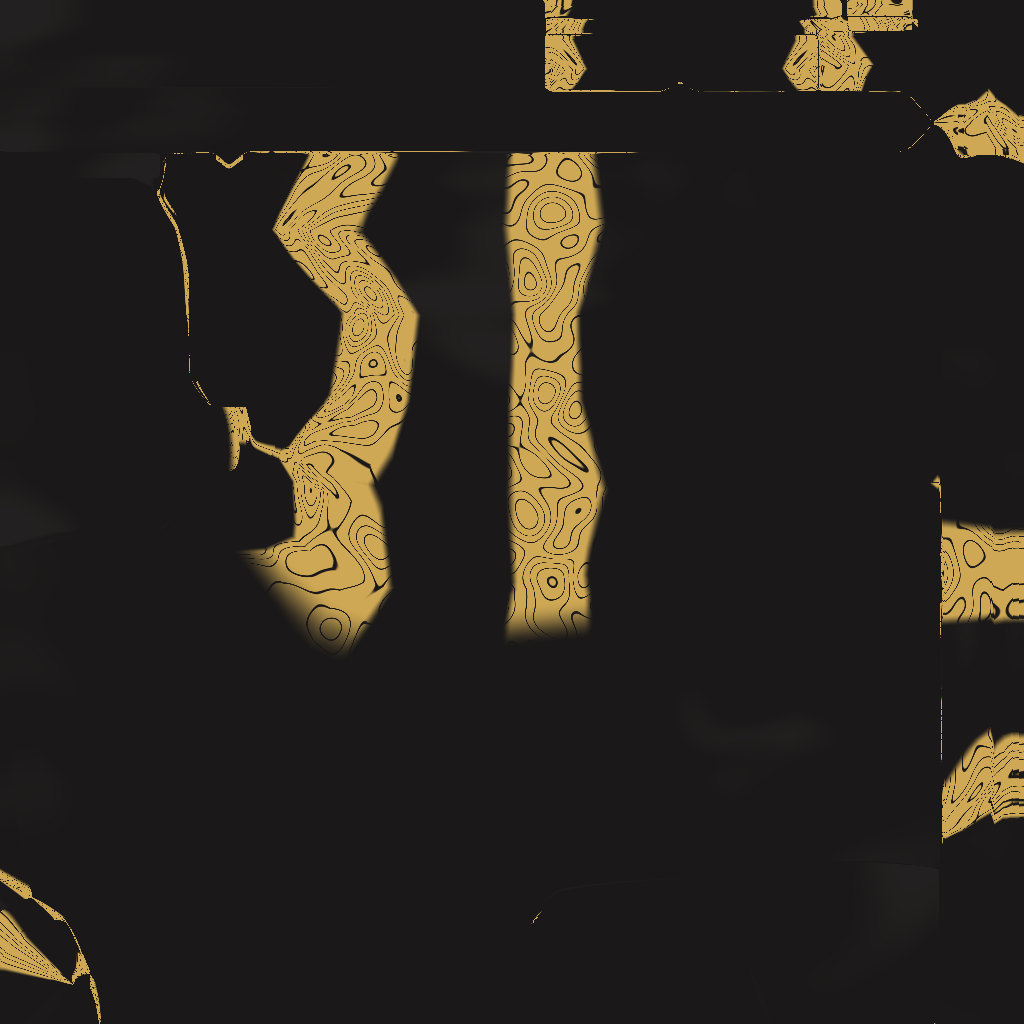
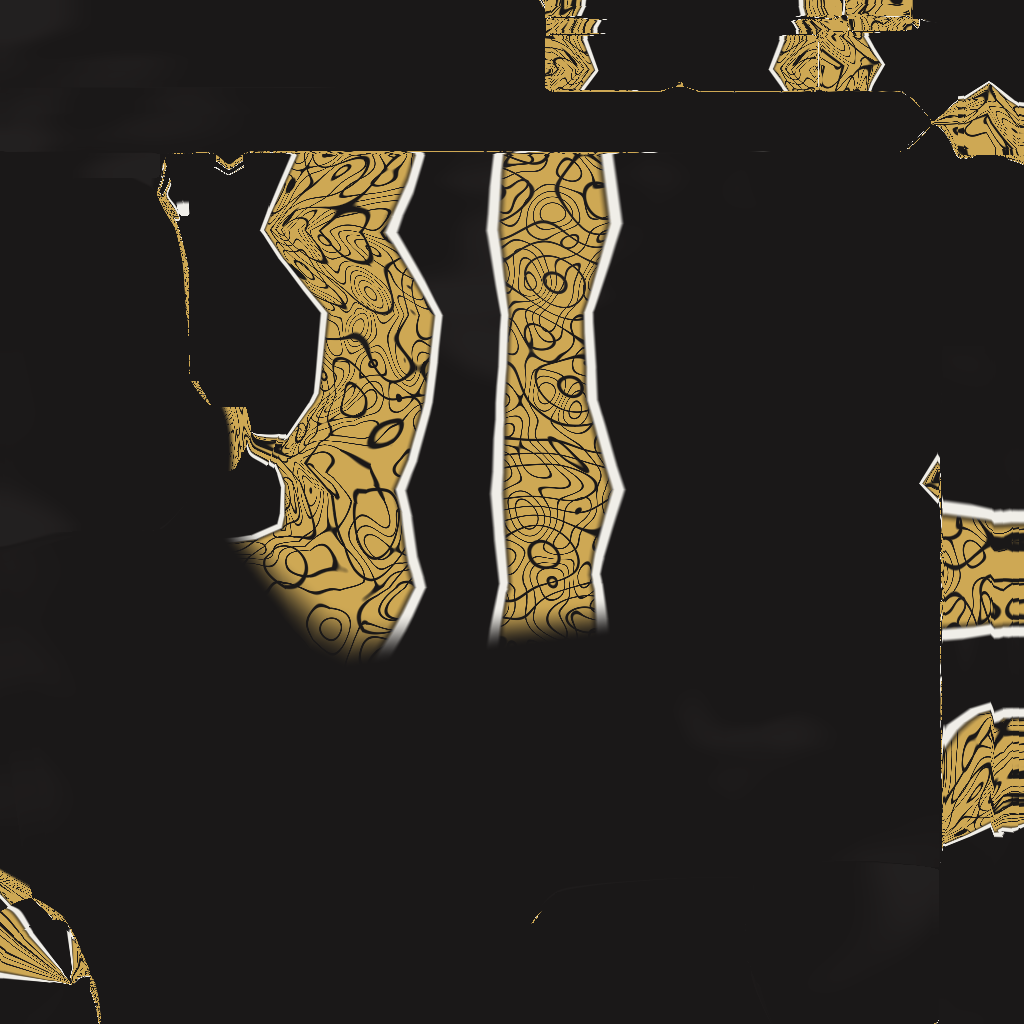
Kenny: his gear's scrollwork, gold veins and white-piped boot panels
Claude-Session: https://claude.ai/code/session_01RyRo3mh3ZakHSDewU65aFM

diff --git a/tools/assets/build_kenny_textures.py b/tools/assets/build_kenny_textures.py
@@ -252,7 +252,17 @@ THIGH_PANEL = (0.61, 1.03, 38.0, 128.0)
 BACK_STRIPE = (0.61, 1.0, 150.0)
 ## On the boots: a gold panel down the front of the shaft and one down the
 ## outside.
-BOOT_PANELS = ((0.0, 22.0), (90.0, 16.0))
+## Pass 7 (8 Nov), against the sheet's boot panels: the front panel runs
+## wider up the shin, every panel edged in white piping (BOOT_PIPING, degrees).
+BOOT_PANELS = ((0.0, 30.0), (90.0, 18.0))
+BOOT_PIPING = 3.0
+## The sheet's tights are white with thin gold veins through the marble, not
+## flat white: TIGHTS_VEIN, at TIGHTS_VEIN_SCALE (m) and strength.
+TIGHTS_VEIN = np.array([212.0, 182.0, 116.0])
+TIGHTS_VEIN_SCALE = 0.22
+TIGHTS_VEIN_STRENGTH = 0.75
+## And the black scrollwork over the gold panels is denser than pass 6's.
+PANEL_SCROLL_WIDTH = 0.13
 BOOT_FOOT = 0.13
 GEAR_SEED = 2710
 
@@ -758,6 +768,8 @@ def tights(point, pts):
                 marble(point, GEAR_SEED) * 0.35, TIGHTS_MARBLE)
     radius = 0.075
     a = np.radians(ang) * radius
+    out = paint(out, filigree(a, hgt, TIGHTS_VEIN_SCALE, GEAR_SEED + 8, 0.035)
+                * (0.45 + 0.55 * marble(point, GEAR_SEED + 9)) * TIGHTS_VEIN_STRENGTH, TIGHTS_VEIN)
     # The outer-thigh panel, scalloped edges, black outline, black scrollwork.
     h0, h1, t0, t1 = THIGH_PANEL
     wave = 7.0 * np.sin(hgt * 60.0 + side * 1.3)
@@ -768,7 +780,8 @@ def tights(point, pts):
     out = paint(out, rim, BLACK)
     gold = paint(np.broadcast_to(GOLD, point.shape).astype(np.float32),
                  marble(point * 3.0, GEAR_SEED + 1) * 0.5, GOLD_DARK)
-    gold = paint(gold, filigree(a, hgt, 0.14, GEAR_SEED + 2, 0.07), BLACK)
+    gold = paint(gold, np.maximum(filigree(a, hgt, 0.14, GEAR_SEED + 2, PANEL_SCROLL_WIDTH),
+                                  filigree(a, hgt, 0.07, GEAR_SEED + 10, 0.08)), BLACK)
     out = paint(out, inside, gold)
     # The stripe down the back of the thigh.
     b0, b1, bc = BACK_STRIPE
@@ -787,15 +800,25 @@ def tights(point, pts):
     # The boot tops on the shin: black, with the boots' gold panels.
     shin = smoothstep(BOOT_TOP + 0.004, BOOT_TOP - 0.004, hgt)
     out = paint(out, shin, BLACK)
+    out = paint(out, shin * boot_piping(ang), TAPE)
     out = paint(out, shin * boot_panels(ang, a, hgt), GOLD)
     return out
+
+
+def boot_piping(ang):
+    m = np.zeros_like(ang)
+    for centre, half in BOOT_PANELS:
+        d = np.abs(np.abs(ang - centre) - half - BOOT_PIPING)
+        m = np.maximum(m, smoothstep(BOOT_PIPING, BOOT_PIPING * 0.4, d))
+    return m
 
 
 def boot_panels(ang, a, hgt):
     m = np.zeros_like(ang)
     for centre, half in BOOT_PANELS:
         m = np.maximum(m, smoothstep(half + 2, half - 2, np.abs(ang - centre)))
-    return m * (1.0 - filigree(a, hgt, 0.06, GEAR_SEED + 4, 0.08))
+    return m * (1.0 - np.maximum(filigree(a, hgt, 0.06, GEAR_SEED + 4, 0.11),
+                                 filigree(a, hgt, 0.11, GEAR_SEED + 11, 0.09)))
 
 
 def boot(point, pts):
@@ -803,6 +826,7 @@ def boot(point, pts):
     out = paint(np.broadcast_to(BLACK, point.shape).astype(np.float32),
                 marble(point * 2.0, GEAR_SEED + 5) * 0.4, BLACK * 1.8)
     shaft = smoothstep(BOOT_FOOT, BOOT_FOOT + 0.02, hgt)
+    out = paint(out, shaft * boot_piping(ang), TAPE)
     out = paint(out, shaft * boot_panels(ang, np.radians(ang) * 0.06, hgt), GOLD)
     return out
 

diff --git a/README.md b/README.md
@@ -11499,3 +11499,10 @@ The owner asked for Kenny to match his reference sheet, starting with height and
 **Eyes, the same day.** Under match light the whites rendered near white, a glow, and a band of white under each iris read as a stare. `KENNY_EYE_TONE` comes down a fifth (0.66/0.61/0.59), and `KennyFaceShape`'s lower lid lifts 2.2 mm (it was 1.2), so the lid now meets the iris: his squint.
 
 **Body skin, the same day.** The sheet's body is flushed red over the upper chest, shoulders and upper back, and freckled across the shoulders. `build_kenny_textures.body_detail` places both by where each texel sits on the body (`gear_points`). The flush rises from 1.18 m and fades out into the neck (`BODY_FLUSH_*`). Freckles thin out below the shoulders (`BODY_FRECKLE_*`), each from a seeded field. Under match light the chest goes from G/R 0.74 to 0.71. The rebuild is byte-identical, and `test_kenny_model`, `test_skin_look` and `test_blood` pass.
+
+**Gear, the same day.** Against the sheet's pants and boot panels, `build_kenny_textures`:
+- runs thin gold veins through the white tights' marble (`TIGHTS_VEIN*`);
+- doubles the black scrollwork over the gold thigh panels (`PANEL_SCROLL_WIDTH`, plus a finer second layer);
+- widens the boots' front panel (`BOOT_PANELS`), fills it with denser scrollwork, and edges every panel in the sheet's white piping (`boot_piping`).
+
+Sheet: `gauntlet/refs/characters/review/kenny_gear_pass7.jpg`. The rebuild is byte-identical.

diff --git a/gauntlet/refs/kenny_lifelike_review.md b/gauntlet/refs/kenny_lifelike_review.md
@@ -11,7 +11,7 @@
 | Walk | Already his own: `KENNY_GAIT` (hip dip 0.044 against Cody's 0.032, shoulder twist 13 against 9, longer looks) | -- |
 | Ring arrival | Wide `entry_crane`, spotlit from the steps to his mark | -- |
 | Head shape | -- | Dense photo-fit (brow, chin, face width) |
-| Gear | -- | Pants, kneepads, boots: the sheet's black-and-gold filigree over white marble against our white with gold side stripes |
+| Gear | Gold veins on the white, dense black scrollwork on the gold panels, boot panels wider and white-piped (`kenny_gear_pass7.jpg`) | The big "2" glyph on the front thigh and knee |
 | Poses | -- | His current routine: no write-up found and footage can't be watched here; needs the owner's description or a clip |
 
 
